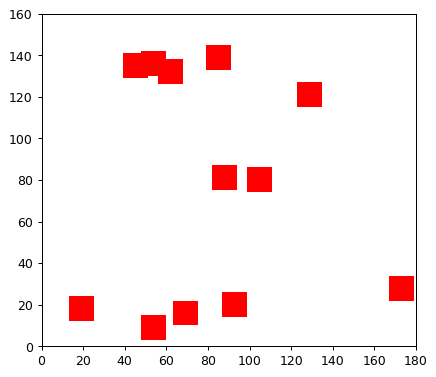
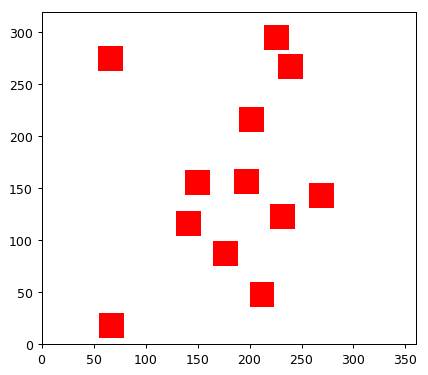
UPDATE

diff --git a/amstelhaegen.py b/amstelhaegen.py
@@ -14,8 +14,8 @@ def drawBuilding(building, x, y, color):
 	ax1.add_patch(
 	    patches.Rectangle(
 	        (x, y),   			# (x,y)
-	        12,    # length
-	        12,     # width
+	        24,    # length
+	        24,     # width
 	        facecolor=color		# color
 	    )
 	)
@@ -38,9 +38,10 @@ if __name__ == "__main__":
 	# fill building array with a house at a random point
 	buildings = []
 
-	while len(buildings) <= 12:
-		xrandom = random.randint(0, 170)
-		yrandom = random.randint(0, 150)
+	while len(buildings) < 12:
+		print len(buildings)
+		xrandom = random.randint(0, 336)
+		yrandom = random.randint(0, 296)
 		house = classes.house(xrandom, yrandom)
 
 		if len(buildings) == 0:
@@ -48,16 +49,19 @@ if __name__ == "__main__":
 			drawBuilding(house, house.left, house.bottom, "red")
 
 		olap = True
-		while(olap):
-
+		while olap:
 			for building in buildings:
 				olap = overlap(house, building)
+				print olap
 				print building
-
-				# print olap
+				print building.left
+				print building.bottom
+				print house.left
+				print house.right
 				if olap:
-					house.left = random.randint(0, 340)
-					house.bottom = random.randint(0, 300)
+					# print olap
+					house.left = random.randint(0, 336)
+					house.bottom = random.randint(0, 296)
 					break
 
 		buildings.append(house)
@@ -85,6 +89,6 @@ if __name__ == "__main__":
 	# 	yrandom = random.randint(0, 150)
 	# 	drawBuilding(classes.maison, xrandom, yrandom, "green")
 
-	ax1.set_xlim(0,180)
-	ax1.set_ylim(0,160)
+	ax1.set_xlim(0,360)
+	ax1.set_ylim(0,320)
 	fig1.savefig('rect1.png', dpi=90, bbox_inches='tight')

diff --git a/classes.py b/classes.py
@@ -1,22 +1,21 @@
 class house:
-
 	def __init__(self, x, y):
-		self.length = 12
-		self.width = 12
-		self.price = 285.000
-		self.marginalValue = 1.03
-		self.location = (x, y)
+		# self.length = 24
+		# self.width = 24
+		# self.price = 285.000
+		# self.marginalValue = 1.03
+		# self.location = (x, y)
 		self.left = x
-		self.right = x + self.width
+		self.right = x + 24
 		self.bottom = y
-		self.top = y + self.length
+		self.top = y + 24
 
 	# def __str__(self):
-		# return
-
-	def score(self, distanceNeighbour):
-		self.freeSpace = distanceNeighbour
-		score = price * marginalValue * self.freespace
+	# 	# return
+    #
+	# def score(self, distanceNeighbour):
+	# 	self.freeSpace = distanceNeighbour
+	# 	score = price * marginalValue * self.freespace
 
 
 class bungalow:
